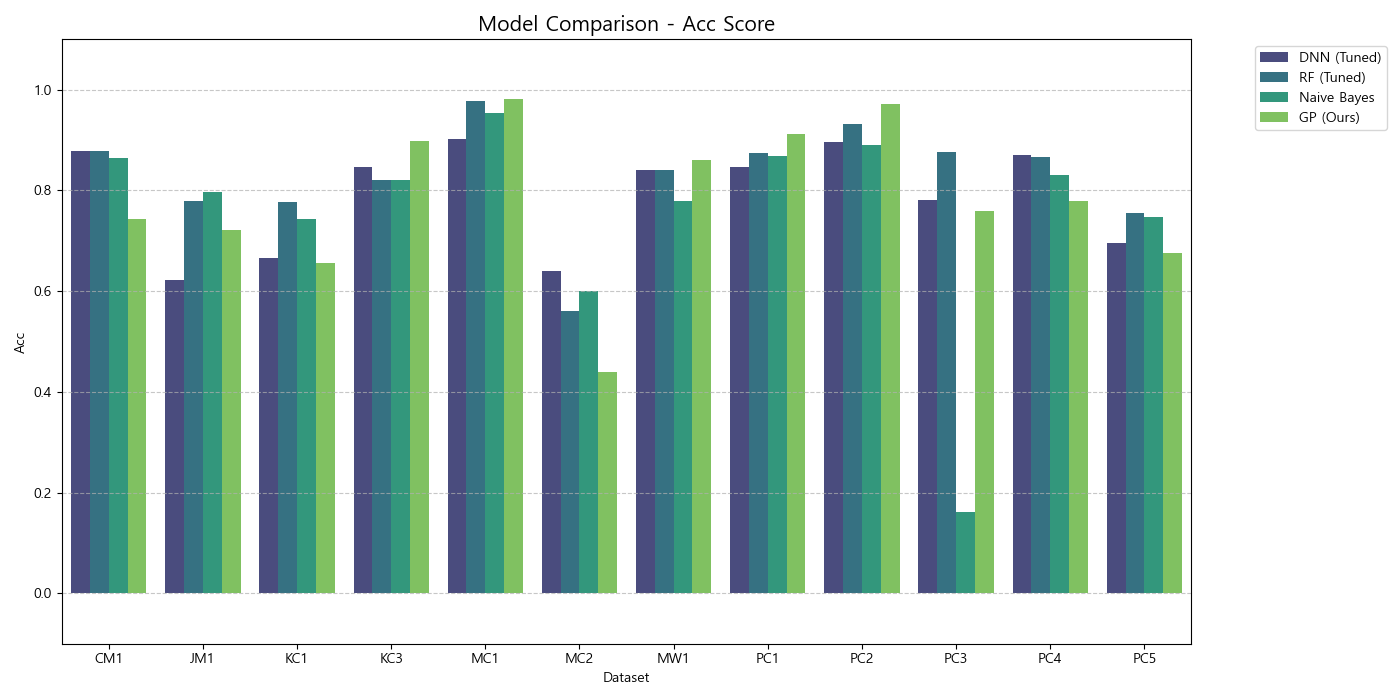
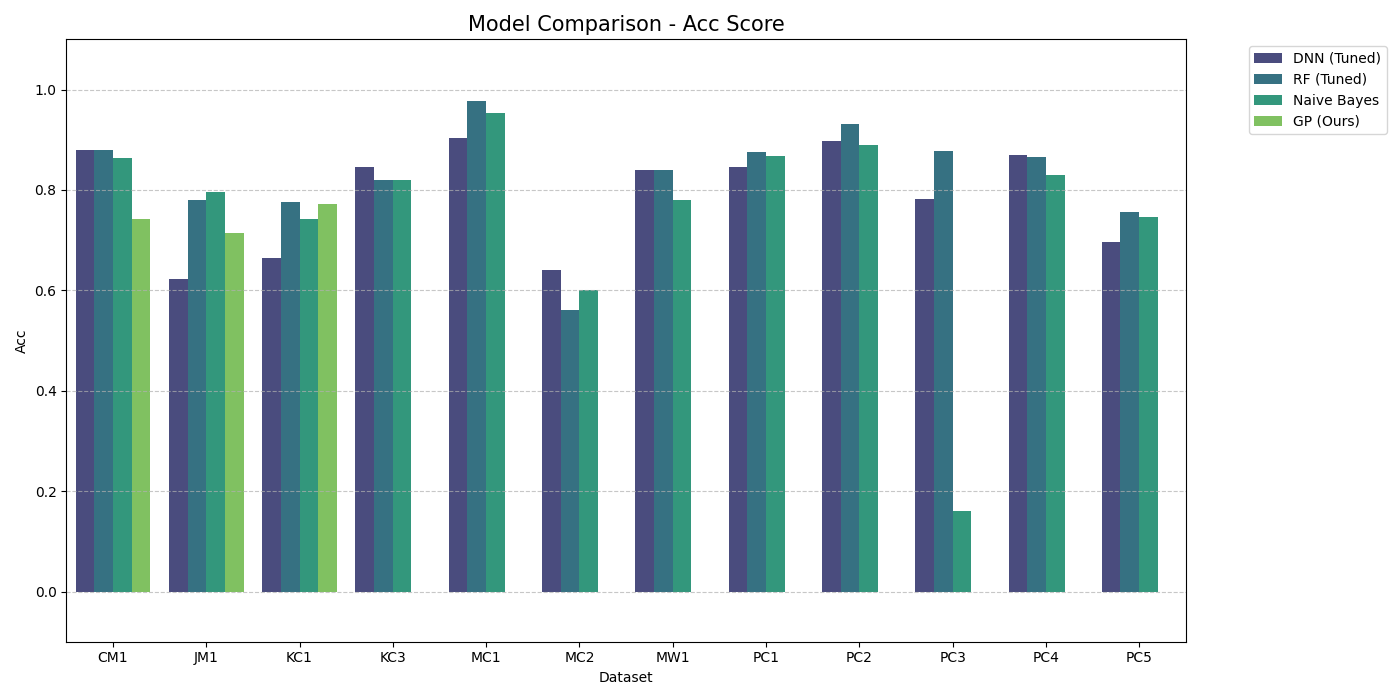
comparison

diff --git a/ga_mo/rl_gep.py b/ga_mo/rl_gep.py
@@ -11,85 +11,86 @@ from torch.distributions import Categorical
 # gptree 모듈 가져오기 (팀원분이 수정한 버전에 호환됨)
 from gptree import generate_tree, Node, FUNC_LIST, FUNCTIONS
 
-# --- [RL-GEP] MLP 정책 네트워크 ---
-class SimpleMLPPolicy(nn.Module):
-    """
-    상수(1.0)를 입력받아, 최대 길이(Max Length)만큼의 연산자/단말 리스트를 한 번에 예측합니다.
-    """
-    def __init__(self, num_actions, max_length=30, hidden_size=64):
-        super(SimpleMLPPolicy, self).__init__()
-        self.max_length = max_length
+class RNNPolicy(nn.Module):
+    def __init__(self, num_actions, hidden_size=64):
+        super(RNNPolicy, self).__init__()
+        self.hidden_size = hidden_size
         self.num_actions = num_actions
         
-        # 입력층: 상수 1개 -> Hidden
-        self.fc1 = nn.Linear(1, hidden_size)
-        self.fc2 = nn.Linear(hidden_size, hidden_size)
+        # [수정] 입력: 이전 행동의 임베딩 (One-hot 대신 임베딩 사용 권장)
+        self.embedding = nn.Embedding(num_actions, hidden_size)
         
-        # 출력층: [Max_Length * Num_Actions]
-        self.output_head = nn.Linear(hidden_size, max_length * num_actions)
+        # [수정] 핵심: LSTM Cell (이전 상태 기억)
+        self.lstm = nn.LSTMCell(hidden_size, hidden_size)
         
-    def forward(self, x):
-        x = torch.relu(self.fc1(x))
-        x = torch.relu(self.fc2(x))
+        # 출력: 다음 토큰의 확률
+        self.fc = nn.Linear(hidden_size, num_actions)
         
-        flat_outputs = self.output_head(x)
-        outputs = flat_outputs.view(-1, self.max_length, self.num_actions)
+    def forward(self, input_action, h_x, c_x):
+        # input_action: [Batch_Size] (인덱스)
+        embedded = self.embedding(input_action) # [Batch, Hidden]
         
-        return outputs
+        h_x, c_x = self.lstm(embedded, (h_x, c_x))
+        
+        logits = self.fc(h_x)
+        return logits, h_x, c_x
 
 class RLAgent:
-    """
-    강화학습 에이전트: MLP를 통해 수식 트리를 생성하고 REINFORCE 알고리즘으로 학습합니다.
-    """
     def __init__(self, n_features, max_nodes=30, hidden_size=64, lr=0.001, device='cpu'):
         self.n_features = n_features
         self.max_nodes = max_nodes
         self.device = device
         
-        # Action Space: [함수들(sqrt포함)..., 변수들(x0~xn), 상수]
+        # Action Space 구성 (기존과 동일)
         self.primitives = FUNC_LIST + [f"x{i}" for i in range(n_features)] + ["const"]
         self.num_actions = len(self.primitives)
-        
-        # 함수 인덱스 (Tail 제약용)
         self.func_indices = list(range(len(FUNC_LIST)))
         
-        # 신경망 초기화
-        self.policy = SimpleMLPPolicy(self.num_actions, max_nodes, hidden_size).to(device)
+        # [수정] MLP -> RNNPolicy로 변경
+        self.policy = RNNPolicy(self.num_actions, hidden_size).to(device)
         self.optimizer = optim.Adam(self.policy.parameters(), lr=lr)
         
-        # 학습 데이터 저장소
         self.saved_log_probs = []
         self.rewards = []
 
     def select_tree(self):
         """
-        MLP로 생성된 행동 리스트를 기반으로 트리를 조립합니다.
+        논문 방식: Autoregressive Generation (순차 생성)
         """
-        constant_input = torch.tensor([[1.0]]).to(self.device)
-        
-        logits = self.policy(constant_input)
-        logits = logits.squeeze(0) # [Max_Nodes, Num_Actions]
-        
         generated_actions = []
         log_probs = []
         
+        # [초기화] Start Token: 0번 인덱스(또는 임의의 값)를 Start Symbol로 가정
+        # 논문의 'Constant Input'은 바로 이 첫 시작 입력을 의미합니다.
+        curr_input = torch.tensor([0], device=self.device) 
+        
+        # LSTM Hidden State 초기화 (0 벡터)
+        h_x = torch.zeros(1, self.policy.hidden_size, device=self.device)
+        c_x = torch.zeros(1, self.policy.hidden_size, device=self.device)
+        
         for i in range(self.max_nodes):
-            l = logits[i]
+            # 1. 정책 네트워크 호출 (이전 상태 h_x, c_x를 함께 전달)
+            logits, h_x, c_x = self.policy(curr_input, h_x, c_x)
             
-            # Masking: 수식이 끝나도록 뒷부분(Tail)에서는 함수 선택 금지
+            # 2. Masking (Tail 부분에서는 함수 선택 금지)
             mask = torch.ones(self.num_actions).to(self.device)
             if i >= self.max_nodes // 2: 
                 mask[self.func_indices] = 0
             
-            masked_l = l.clone()
-            masked_l[mask == 0] = -1e9
+            masked_logits = logits.clone()
+            masked_logits[0, mask == 0] = -1e9
             
-            probs = torch.softmax(masked_l, dim=-1)
+            # 3. 행동 선택 (Sampling)
+            probs = torch.softmax(masked_logits, dim=-1)
             m = Categorical(probs)
             action = m.sample()
             
+            # 4. 저장 및 다음 단계 준비
             generated_actions.append(action.item())
             log_probs.append(m.log_prob(action))
+            
+            # [중요] 방금 뽑은 행동이 다음 스텝의 입력이 됨
+            curr_input = action 
             
         self.saved_log_probs.append(torch.stack(log_probs).sum())
         

diff --git a/moga_variant_comp.py b/moga_variant_comp.py
@@ -23,19 +23,18 @@ except ImportError as e:
     sys.exit(1)
 
 # ====================================================
-# [2] 실행 로직 최적화 (속도 향상)
+# [2] 실행 로직 최적화 (MCC 기준)
 # ====================================================
-def run_f1_only(dataset_name, need_seed=False):
+def run_mcc_only(dataset_name, need_seed=False):
     """
     기존 main.py의 실행 함수를 대체하여,
-    불필요한 MCC 최적화 루프를 제거하고 'F1' 타겟만 수행합니다.
-    (속도 약 2배 향상)
+    불필요한 F1 최적화 루프를 제거하고 'MCC' 타겟만 수행합니다.
     """
-    print(f"\n🚀 {dataset_name} Multi-Objective 분석 시작 (Target: F1 Only)...")
+    print(f"\n🚀 {dataset_name} Multi-Objective 분석 시작 (Target: MCC Only)...")
     
     # 데이터 로드 (main_script의 유틸리티 활용)
     # 전처리된 데이터가 없으면 None 반환
-    X_train, y_train, X_test, y_test = main_script.load_data_robust(dataset_name, data_type='pt')
+    X_train, y_train, X_test, y_test = main_script.load_data_robust(dataset_name, data_type='rf')
     
     if X_train is None: 
         return []
@@ -48,11 +47,11 @@ def run_f1_only(dataset_name, need_seed=False):
 
     data = (X_train.values, y_train.values, X_test.values, y_test.values)
     
-    # [핵심] for loop 없이 'f1' 타겟으로만 1회 실행
-    return main_script.optimize_and_evaluate(dataset_name, *data, 'f1', seeds=seeds)
+    # [핵심 변경] 'f1' -> 'mcc' 타겟으로 변경하여 실행
+    return main_script.optimize_and_evaluate(dataset_name, *data, 'mcc', seeds=seeds)
 
 # main.py의 원래 함수를 우리가 만든 최적화 함수로 교체 (Monkey Patch)
-main_script.run_mo_ga_on_dataset = run_f1_only
+main_script.run_mo_ga_on_dataset = run_mcc_only
 
 # ====================================================
 # [3] 결과 시각화 함수
@@ -133,7 +132,7 @@ TARGET_DATASETS = ['CM1', 'JM1', 'KC1', 'KC3', 'MC1', 'MC2', 'MW1', 'PC1', 'PC2'
 all_results = []
 
 print("="*60)
-print(f"🚀 4가지 변형 모델 비교 실험 시작")
+print(f"🚀 4가지 변형 모델 비교 실험 시작 (Target: MCC)")
 print(f"📂 대상 데이터셋: {TARGET_DATASETS}")
 print("="*60)
 
@@ -144,29 +143,28 @@ for dataset in TARGET_DATASETS:
         print(f"   ▶ {mode_name} 실행 중...", end=" ", flush=True)
         
         # [핵심] 메인 로직이 사용할 GP 클래스를 동적으로 교체
-        # 이렇게 하면 main.py 코드를 수정하지 않고도 다른 알고리즘(RL 등)을 끼워 넣을 수 있음
         main_script.MultiObjectiveGP = module_src.MultiObjectiveGP
         
         try:
-            # 학습 및 평가 실행 (위에서 정의한 run_f1_only가 호출됨)
+            # 학습 및 평가 실행 (위에서 정의한 run_mcc_only가 호출됨)
             raw_res = main_script.run_mo_ga_on_dataset(dataset, need_seed=use_seed)
             
-            # 결과 중 F1 점수가 가장 높은 모델 1개만 추출 (그래프용 대표값)
+            # [핵심 변경] 결과 중 MCC 점수가 가장 높은 모델 1개만 추출
             best_sol = None
             
-            # run_f1_only를 썼으므로 이미 타겟은 F1이지만, 안전하게 필터링
-            f1_targets = [r for r in raw_res if r.get('Target') == 'F1' or r.get('Target') == 'F1']
+            # run_mcc_only를 썼으므로 이미 타겟은 MCC지만, 안전하게 필터링
+            mcc_targets = [r for r in raw_res if str(r.get('Target')).upper() == 'MCC']
             
-            if f1_targets:
-                best_sol = max(f1_targets, key=lambda x: x['Test_F1'])
+            if mcc_targets:
+                best_sol = max(mcc_targets, key=lambda x: x['Test_MCC'])
             elif raw_res:
-                # 타겟 정보가 없으면 그냥 전체 중 최고값
-                best_sol = max(raw_res, key=lambda x: x['Test_F1'])
+                # 타겟 정보가 없으면 그냥 전체 중 MCC 최고값
+                best_sol = max(raw_res, key=lambda x: x['Test_MCC'])
                 
             if best_sol:
                 best_sol['Variant'] = mode_name  # 어떤 모드인지 기록
                 all_results.append(best_sol)
-                print(f"✅ 완료 (F1: {best_sol['Test_F1']:.4f})")
+                print(f"✅ 완료 (MCC: {best_sol['Test_MCC']:.4f})")
             else:
                 print("⚠ 결과 없음 (데이터셋 로드 실패 등)")
                 
@@ -183,12 +181,12 @@ if all_results:
     
     # CSV 파일 저장
     timestamp = datetime.now().strftime('%m%d_%H%M')
-    csv_filename = f"final_comparison_{timestamp}.csv"
+    csv_filename = f"final_comparison_MCC_{timestamp}.csv"  # 파일명에 MCC 명시
     df.to_csv(csv_filename, index=False)
     print(f"\n💾 CSV 결과 파일 저장 완료: {csv_filename}")
     
     # 그래프 생성 및 저장
-    save_comparison_plots(df, save_dir=f"results_plot_{timestamp}")
+    save_comparison_plots(df, save_dir=f"results_plot_MCC_{timestamp}")
     
     print("\n" + "="*60)
     print("🏆 모든 실험 및 그래프 생성 완료!")

diff --git a/ga_mo/main.py b/ga_mo/main.py
@@ -190,7 +190,7 @@ if __name__ == "__main__":
     
     all_results = []
     for name in DATASET_NAMES:
-        all_results.extend(run_mo_ga_on_dataset(name, need_seed = True))
+        all_results.extend(run_mo_ga_on_dataset(name, need_seed = False))
             
     if all_results:
         headers = ["Dataset", "Target", "Cplx", "F1", "MCC", "Acc", "Formula"]
